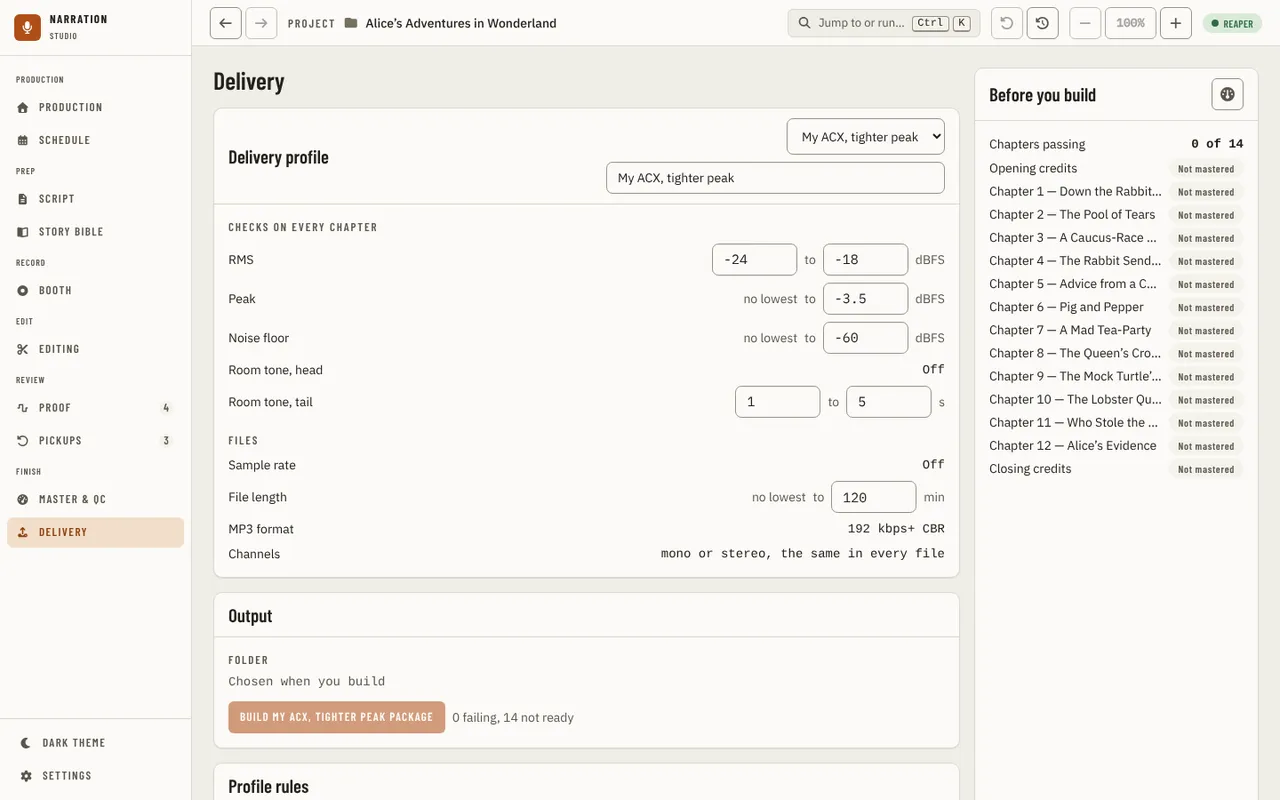
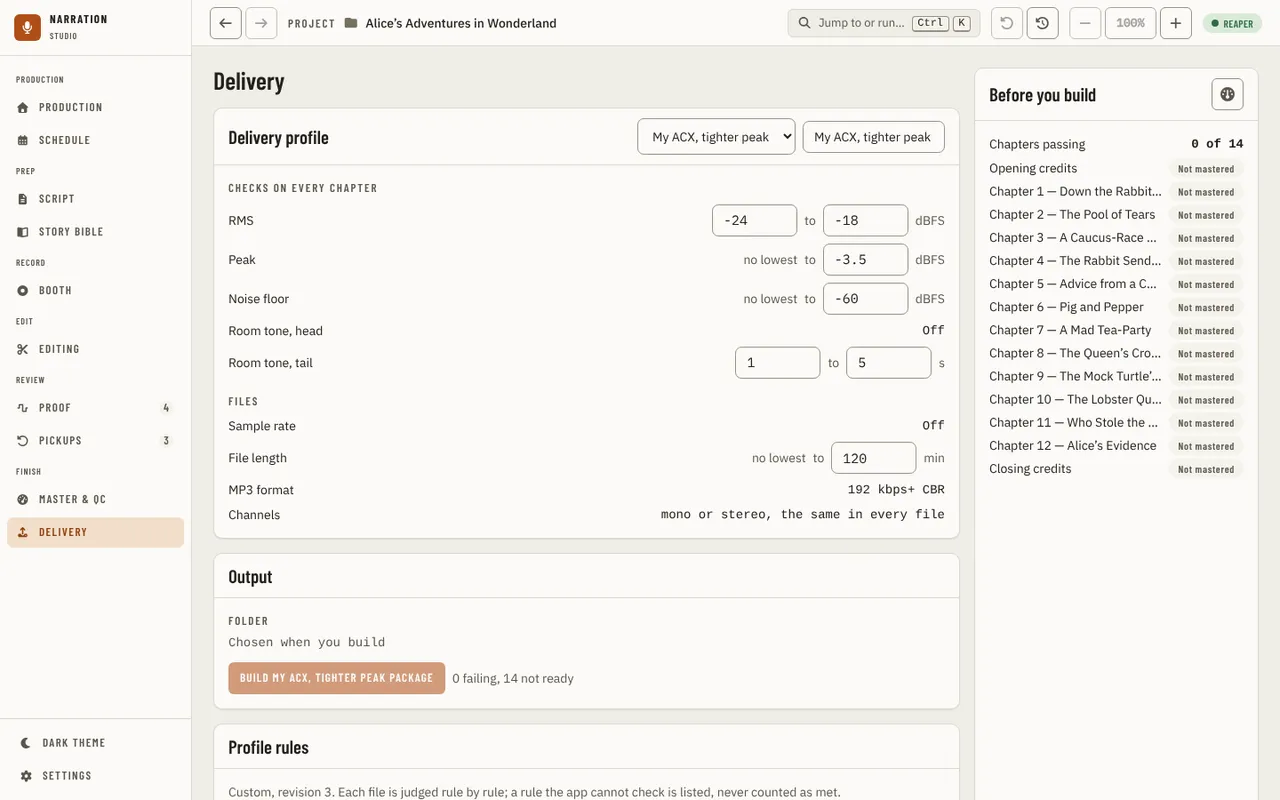
fix(ui): say a quiet-host cancel is unconfirmed, answer Check again, one-row profile header
Re-audit #1774, items 2 to 5 of its list.

- Cancel while the host is not answering no longer reads "Packaging cancelled." It says
  the cancel was sent but not confirmed, and keeps the quiet notice until the host
  reports that the job ended.
- Check again answers the press: "You checked again just now: the host still did not
  answer."
- A custom profile's name box is the mock's 160 px, so the title, the menu and the name
  share one row.
- A name over 80 characters gets the same kind of sentence as a blank one, instead of the
  host's raw text.

The mock host now stays silent for a cancel too, as a quiet host would. Two profile-name
tests were ported: the 200-character save is now 80, and the host-refusal test uses a
refusal the card cannot pre-empt.

Guide: delivery.md, with the delivery-custom-profile and delivery-host-quiet-cancelled
images.

Claude-Session: https://claude.ai/code/session_01SaTxMZxPywogbcEnYUZSYc

diff --git a/apps/ui/src/components/delivery/profile/Matrix.test.tsx b/apps/ui/src/components/delivery/profile/Matrix.test.tsx
@@ -139,6 +139,32 @@ describe('D2 Profile name', () => {
     expect((await screen.findByRole('alert')).textContent).toBe('A profile needs a name, so the name was left as it was.');
   });
 
+  it('too long: says the name was kept, in the same words as a blank one, and never asks the host', async () => {
+    const save = vi.fn(async () => mockCustomProfile());
+    mount({ deliverySaveProfile: save });
+    const user = userEvent.setup();
+    const box = await screen.findByRole('textbox', { name: 'Profile name' });
+    await user.clear(box);
+    await user.click(box);
+    await user.paste('x'.repeat(81));
+    await user.keyboard('{Enter}');
+    expect((await screen.findByRole('alert')).textContent).toBe("A profile's name can be at most 80 characters, so the name was left as it was.");
+    expect(save).not.toHaveBeenCalled();
+    expect(box).toHaveProperty('value', 'My ACX, tighter peak');
+  });
+
+  it('80 characters exactly: saved', async () => {
+    const save = vi.fn(async () => mockCustomProfile());
+    mount({ deliverySaveProfile: save });
+    const user = userEvent.setup();
+    const box = await screen.findByRole('textbox', { name: 'Profile name' });
+    await user.clear(box);
+    await user.click(box);
+    await user.paste('x'.repeat(80));
+    await user.keyboard('{Enter}');
+    await waitFor(() => expect(save).toHaveBeenCalledTimes(1));
+  });
+
   it('locked while a build runs: no name or limit boxes, and the menu is off', async () => {
     const api = createMockApi({ deliveryProfiles: async () => stateOf(mockCustomProfile()) });
     render(
@@ -151,26 +177,26 @@ describe('D2 Profile name', () => {
     expect(screen.getByRole('combobox')).toHaveProperty('disabled', true);
   });
 
-  it('long, right-to-left and emoji: saved as typed, surrounding spaces trimmed', async () => {
+  it('long (80 characters), right-to-left and emoji: saved as typed, surrounding spaces trimmed', async () => {
     const save = vi.fn(async () => mockCustomProfile());
     mount({ deliverySaveProfile: save });
     const user = userEvent.setup();
     const box = await screen.findByRole('textbox', { name: 'Profile name' });
-    for (const name of ['ملف التسليم 🎧', 'פרופיל 📚', 'y'.repeat(200)]) {
+    for (const name of ['ملف التسليم 🎧', 'פרופיל 📚', 'y'.repeat(80)]) {
       await user.clear(box);
       await user.type(box, `  ${name}  {Enter}`);
       await waitFor(() => expect(lastSave(save).name).toBe(name));
     }
   });
 
-  it('the host refuses the name (too long): its sentence is shown and the box reverts', async () => {
-    const save = vi.fn().mockRejectedValue(new Error("a profile's name must be 1 to 80 characters"));
+  it('the host refuses the name (here, one already taken): its sentence is shown and the box reverts', async () => {
+    const save = vi.fn().mockRejectedValue(new Error('a profile named "Mine" already exists'));
     mount({ deliverySaveProfile: save });
     const user = userEvent.setup();
     const box = await screen.findByRole('textbox', { name: 'Profile name' });
     await user.clear(box);
-    await user.type(box, `${'z'.repeat(200)}{Enter}`);
-    expect((await screen.findByRole('alert')).textContent).toContain('must be 1 to 80 characters');
+    await user.type(box, 'Mine{Enter}');
+    expect((await screen.findByRole('alert')).textContent).toContain('already exists');
     expect(box).toHaveProperty('value', 'My ACX, tighter peak');
   });
 

diff --git a/apps/ui/src/components/delivery/page/useDeliveryBuild.ts b/apps/ui/src/components/delivery/page/useDeliveryBuild.ts
@@ -41,6 +41,10 @@ export function useDeliveryBuild(profile: DeliveryProfile | undefined) {
   const [notice, setNotice] = useState<string>();
   const [opening, setOpening] = useState(false);
   const [openProblem, setOpenProblem] = useState<string>();
+  // A Cancel the host never answered: the build may still be running, so the page must not say it was cancelled.
+  const [cancelUnanswered, setCancelUnanswered] = useState(false);
+  // When Check again was last pressed, so the answer to that press can be told apart from the page's own retries.
+  const [pressedAt, setPressedAt] = useState<number>();
 
   const exportFiles = exported.value?.files;
   const encodedFiles = useMemo(() => exportFiles?.filter((file) => file.status === 'done' && file.encodedPath) ?? [], [exportFiles]);
@@ -55,6 +59,7 @@ export function useDeliveryBuild(profile: DeliveryProfile | undefined) {
     setStarting(true);
     setProblem(undefined);
     setNotice(undefined);
+    setCancelUnanswered(false);
     const before = packaged.value?.id ?? null;
     const items: PackageItem[] = encodedFiles.map((file) => ({ kind: file.kind, title: file.title, path: file.encodedPath as string }));
     try {
@@ -71,8 +76,13 @@ export function useDeliveryBuild(profile: DeliveryProfile | undefined) {
   }, [profile, port, packaged, encodedFiles]);
 
   const cancel = useCallback(() => {
-    port.packageCancel().then(packaged.set, (failure) => setProblem(apiErrorMessage(failure)));
-  }, [port, packaged]);
+    setCancelUnanswered(false);
+    port.packageCancel().then(packaged.set, (failure) => {
+      // The host did not answer: nothing says the build stopped. Anything else is the host refusing, in its words.
+      if (packaged.error !== undefined || exported.error !== undefined) setCancelUnanswered(true);
+      else setProblem(apiErrorMessage(failure));
+    });
+  }, [port, packaged, exported.error]);
 
   const openFolder = () => {
     setOpening(true);
@@ -100,6 +110,8 @@ export function useDeliveryBuild(profile: DeliveryProfile | undefined) {
     built: finished?.phase === 'success' && profile && finished.profile === deliveryProfileKey(profile) ? finished : undefined,
     failed: finished?.phase === 'error' ? finished : undefined,
     cancelled: finished?.phase === 'cancelled' ? finished : undefined,
+    /** Cancel was pressed while the host was quiet and never answered; goes when the host reports the job is no longer running. */
+    cancelUnconfirmed: cancelUnanswered && running,
     // The folder this profile's last build used; a build for another profile has its own, not this one's.
     folder: job && profile && job.profile === deliveryProfileKey(profile) ? job.outputDir || undefined : undefined,
     build,
@@ -109,7 +121,10 @@ export function useDeliveryBuild(profile: DeliveryProfile | undefined) {
     lastHeard: packaged.error !== undefined ? packaged.lastHeard : exported.lastHeard,
     /** When the host was last asked, answered or not: the proof that Check again read afresh. */
     lastAsked: packaged.error !== undefined ? packaged.lastAsked : exported.lastAsked,
+    /** When the host was last asked because Check again was pressed, and whether it has answered that press yet. */
+    checkedAt: pressedAt,
     checkAgain: () => {
+      setPressedAt(Date.now());
       readExport();
       readPackage();
     },

diff --git a/apps/ui/src/components/delivery/page/Matrix.test.tsx b/apps/ui/src/components/delivery/page/Matrix.test.tsx
@@ -325,6 +325,44 @@ describe('D5 and D6 a running build', () => {
     await waitFor(() => expect(screen.getByRole('alert').textContent).toMatch(/asked again just now/));
   });
 
+  it('Cancel against a quiet host: says the cancel is unconfirmed, keeps the quiet notice and never says cancelled', async () => {
+    let silent = false;
+    const packageState = vi.fn(async () => {
+      if (silent) throw new Error('the host did not answer');
+      return RUNNING;
+    });
+    const packageCancel = vi.fn(async () => {
+      throw new Error('the host did not answer');
+    });
+    mount({ packageState, packageCancel });
+    await screen.findByRole('button', { name: 'Cancel' });
+    silent = true;
+    await act(async () => vi.advanceTimersByTimeAsync(700));
+    await screen.findByText(/Can't tell how the build is going/);
+    await userEvent.click(screen.getByRole('button', { name: 'Cancel' }), { advanceTimers: vi.advanceTimersByTime });
+    expect((await screen.findByRole('status')).textContent).toBe('Cancel was sent, but the host did not confirm it, so the build may still be running.');
+    expect(screen.queryByText('Packaging cancelled.')).toBeNull();
+    expect(screen.getByText(/Can't tell how the build is going/)).toBeTruthy();
+    expect(screen.getByRole('button', { name: 'Cancel' })).toBeTruthy();
+    // The host comes back and says the build ended: the unconfirmed sentence goes with the running build.
+    silent = false;
+    packageState.mockImplementation(async () => ({ ...RUNNING, phase: 'cancelled', message: 'Packaging cancelled.' }) as PackageJob);
+    await act(async () => vi.advanceTimersByTimeAsync(2100));
+    expect(await screen.findByText('Packaging cancelled.')).toBeTruthy();
+    expect(screen.queryByText(/did not confirm it/)).toBeNull();
+  });
+
+  it('Check again against a quiet host: a press is answered with "You checked again", not only the standing "asked again"', async () => {
+    const packageState = vi.fn(async () => {
+      throw new Error('the host did not answer');
+    });
+    mount({ packageState });
+    const alert = await screen.findByRole('alert');
+    expect(screen.queryByText(/You checked again/)).toBeNull();
+    await userEvent.click(within(alert).getByRole('button', { name: 'Check again' }), { advanceTimers: vi.advanceTimersByTime });
+    await waitFor(() => expect(screen.getByRole('status').textContent).toMatch(/^You checked again just now: the host still did not answer\.$/));
+  });
+
   it('late and out of order: an answer to an older read never replaces the Cancel answer', async () => {
     const slow = deferred<PackageJob>();
     let calls = 0;

diff --git a/apps/ui/tests/visual/deliveryProfileHeader.spec.ts b/apps/ui/tests/visual/deliveryProfileHeader.spec.ts
@@ -1,0 +1,29 @@
+import { expect, test } from '@playwright/test';
+import { goToPage } from './drivers/shared';
+import { settlePage } from './helpers/settle';
+
+// The profile card's header keeps the title, the profile menu and the name box on one row, as the Studio Next mock does (its name box is
+// 160 px); a full-width name box wrapped onto a second row and left the title floating between the rows. Geometry, so it needs a real browser.
+for (const [width, height] of [
+  [1440, 900],
+  [960, 640],
+]) {
+  test(`Delivery / profile card header is one row / ${width}x${height}`, async ({ page }) => {
+    await page.setViewportSize({ width, height });
+    await page.goto('/?mockDeliveryProfile=custom');
+    await settlePage(page);
+    await goToPage(page, 'Delivery');
+    await page.mouse.move(width * 0.6, height * 0.5);
+    const centre = async (box: ReturnType<typeof page.locator>) => {
+      const rect = await box.boundingBox();
+      if (!rect) throw new Error('not drawn');
+      return { y: rect.y + rect.height / 2, width: rect.width };
+    };
+    const title = await centre(page.getByRole('heading', { name: 'Delivery profile' }));
+    const menu = await centre(page.getByRole('combobox', { name: /^Delivery profile:/ }));
+    const name = await centre(page.getByRole('textbox', { name: 'Profile name' }));
+    expect(Math.abs(menu.y - name.y), 'the menu and the name box share a row').toBeLessThanOrEqual(4);
+    expect(Math.abs(title.y - name.y), 'the title shares that row').toBeLessThanOrEqual(8);
+    expect(name.width, "the name box is the mock's width, not the card's").toBeLessThanOrEqual(200);
+  });
+}

diff --git a/apps/ui/src/components/delivery/profile/ProfileCard.tsx b/apps/ui/src/components/delivery/profile/ProfileCard.tsx
@@ -14,6 +14,10 @@ import { LimitRow } from './LimitRow';
 import { editOf, formatRules, limitRules, limitsOf, type Limit } from './limitText';
 import { ProfileMenu } from './ProfileMenu';
 
+/** The longest profile name the host saves (deliverySaveProfile refuses more); checked here so the refusal reads like the blank-name one. */
+const MAX_NAME_LENGTH = 80;
+const NAME_KEPT = ', so the name was left as it was.';
+
 /** The profile the project is judged against: the one the project chose, else the Global default. */
 const activeProfile = (state: DeliveryProfilesState): DeliveryProfile | undefined =>
   state.profiles.find((profile) => deliveryProfileKey(profile) === state.projectProfile) ?? state.profiles[0];
@@ -115,11 +119,14 @@ export function ProfileCard({
           ) : (
             <CommitBox
               label="Profile name"
-              className="max-w-full min-w-[10rem]"
+              className="w-40 max-w-full"
               value={profile.name}
-              onCommit={(name) =>
-                name.trim() === '' ? setError('A profile needs a name, so the name was left as it was.') : void save(editOf(profile, { name: name.trim() }))
-              }
+              onCommit={(name) => {
+                const trimmed = name.trim();
+                if (trimmed === '') setError(`A profile needs a name${NAME_KEPT}`);
+                else if ([...trimmed].length > MAX_NAME_LENGTH) setError(`A profile's name can be at most ${MAX_NAME_LENGTH} characters${NAME_KEPT}`);
+                else void save(editOf(profile, { name: trimmed }));
+              }}
             />
           )}
         </span>

diff --git a/apps/ui/src/components/delivery/page/OutputPanel.tsx b/apps/ui/src/components/delivery/page/OutputPanel.tsx
@@ -7,7 +7,7 @@ import { ProgressBar } from '../../primitives/ProgressBar';
 import { SectionLabel } from '../../primitives/SectionLabel';
 import { StatusBadge } from '../../primitives/StatusBadge';
 import type { DeliveryBuild } from './useDeliveryBuild';
-import { askedText, heardText } from './useHostRead';
+import { askedText, checkedText, heardText } from './useHostRead';
 
 const MUTED = { color: 'var(--text-muted)' };
 const DANGER = { color: 'var(--danger-text)' };
@@ -85,6 +85,16 @@ export function OutputPanel({
             <Button variant="ghost" size="sm" onClick={build.checkAgain}>
               Check again
             </Button>
+          </p>
+        )}
+        {build.quiet !== undefined && build.checkedAt !== undefined && build.lastAsked !== undefined && build.lastAsked >= build.checkedAt && (
+          <p role="status" className="text-sm" style={MUTED}>
+            {checkedText(build.checkedAt)}: the host still did not answer.
+          </p>
+        )}
+        {build.cancelUnconfirmed && (
+          <p role="status" className="text-sm" style={MUTED}>
+            Cancel was sent, but the host did not confirm it, so the build may still be running.
           </p>
         )}
         {/* What the last attempt came to belongs to the profile and limits it was made with: a change drops it, as it drops the built list. */}

diff --git a/apps/ui/tests/visual/drivers/delivery.ts b/apps/ui/tests/visual/drivers/delivery.ts
@@ -63,6 +63,16 @@ export const deliveryDrivers: Record<string, Driver> = {
     await buildButton(page).click();
     await page.getByRole('alert').filter({ hasText: "Can't tell how the build is going" }).waitFor();
   },
+  'host-quiet-cancelled': async (page) => {
+    await openReady(page, 'quiet');
+    await buildButton(page).click();
+    const quiet = page.getByRole('alert').filter({ hasText: "Can't tell how the build is going" });
+    await quiet.waitFor();
+    await quiet.getByRole('button', { name: 'Check again' }).click();
+    await page.getByText(/^You checked again .*: the host still did not answer\.$/).waitFor();
+    await page.getByRole('button', { name: 'Cancel', exact: true }).click();
+    await page.getByText('Cancel was sent, but the host did not confirm it, so the build may still be running.').waitFor();
+  },
   'no-manuscript': async (page) => {
     await page.goto('/delivery?mockNoManuscript');
     await settlePage(page);

diff --git a/apps/ui/src/components/delivery/page/useHostRead.ts b/apps/ui/src/components/delivery/page/useHostRead.ts
@@ -94,3 +94,9 @@ export function askedText(lastAsked: number | undefined, now = Date.now()): stri
   const seconds = lastAsked === undefined ? undefined : Math.max(0, Math.round((now - lastAsked) / 1000));
   return seconds === undefined ? 'not asked yet' : seconds === 0 ? 'asked again just now' : `asked again ${seconds} s ago`;
 }
+
+/** "You checked again just now" or "You checked again 4 s ago": what a press of Check again says it did. */
+export function checkedText(pressedAt: number, now = Date.now()): string {
+  const seconds = Math.max(0, Math.round((now - pressedAt) / 1000));
+  return seconds === 0 ? 'You checked again just now' : `You checked again ${seconds} s ago`;
+}

diff --git a/apps/ui/tests/visual/catalog/delivery.ts b/apps/ui/tests/visual/catalog/delivery.ts
@@ -61,6 +61,12 @@ export const deliveryStates: StateEntry[] = [
   },
   {
     page: 'delivery',
+    state: 'host-quiet-cancelled',
+    description:
+      'Delivery with the host not answering (?mockDelivery=quiet), after Check again and then Cancel - "You checked again just now: the host still did not answer." and "Cancel was sent, but the host did not confirm it, so the build may still be running." with the quiet notice and Cancel still up',
+  },
+  {
+    page: 'delivery',
     state: 'no-manuscript',
     description: 'Delivery opened by its address with no manuscript imported (?mockNoManuscript) - the page asks for the manuscript first',
   },

diff --git a/apps/ui/src/api/renderEncodeMasterMock.ts b/apps/ui/src/api/renderEncodeMasterMock.ts
@@ -387,7 +387,8 @@ export function createRenderEncodeMasterMock(
       return wireClone(packageJob);
     },
     packageCancel: async (): Promise<PackageJob> => {
-      silent = false;
+      // A host that has stopped answering the job's reads does not answer a cancel either: nothing is confirmed.
+      if (silent) throw new Error('the host did not answer');
       if (packageJob.phase === 'running') {
         packageJob = { ...packageJob, phase: 'cancelled', message: 'Packaging cancelled.' };
         publish({ id: packageJob.id ?? '', kind: 'render_package', outcome: 'cancelled', message: packageJob.message, durationMs: 500 });

diff --git a/docs/guides/using-the-app/delivery.md b/docs/guides/using-the-app/delivery.md
@@ -19,7 +19,9 @@ longest file, MP3 format and channels. A built-in profile is marked **Built in**
 
 A custom profile's name, its limits (a lowest and a highest box each) and its longest file can be changed in
 place; the change is saved when you press Enter or leave the box, and a rule it turned off reads **Off**. A
-blank name or a limit that is not a number is ignored and the box shows the saved value again. If the lowest
+blank name, a name over 80 characters or a limit that is not a number is ignored, a sentence under the card says so
+("A profile needs a name, so the name was left as it was.") and the box shows the saved value again. The name box
+sits on the same row as the title and the profile menu. If the lowest
 is above the highest, or the host refuses the change for another reason, its sentence appears under the card
 and the box shows the saved value again. To make a custom profile, duplicate ACX in [Settings, Delivery](settings.md);
 turning a rule off and deleting a profile are there too. If you had set your own limits before delivery
@@ -83,9 +85,16 @@ is a chapter whose title makes a file name longer than Windows allows.
 ![Delivery after the host refused the build: its reason under Build, and nothing written](../../images/ui/delivery-build-failed.webp)
 
 If the host stops answering while a build runs, Delivery says "Can't tell how the build is going", when it last
-heard and when it last asked (**asked again just now** after **Check again**, which reads again at once); the build keeps running on the host and **Cancel** is still there.
+heard and when it last asked. **Check again** reads again at once and answers your press: "You checked again just now:
+the host still did not answer." The build keeps running on the host and **Cancel** is still there.
 
 ![Delivery with a running build and a host that no longer answers: the message with Check again](../../images/ui/delivery-host-quiet.webp)
+
+**Cancel** with a quiet host cannot be confirmed, so Delivery says "Cancel was sent, but the host did not confirm
+it, so the build may still be running." and keeps the quiet message. It says "Packaging cancelled." only when the
+host reports that the build ended; **Check again** asks for that.
+
+![Delivery with a host that no longer answers, after Check again and Cancel: each press is answered, and the cancel is marked unconfirmed](../../images/ui/delivery-host-quiet-cancelled.webp)
 
 ## Profile rules
 
